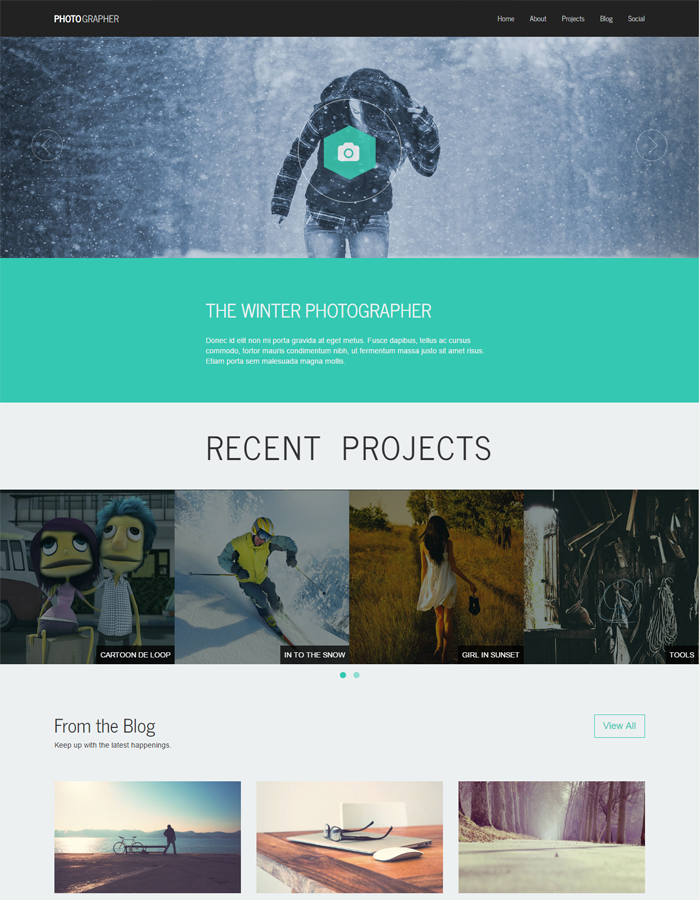
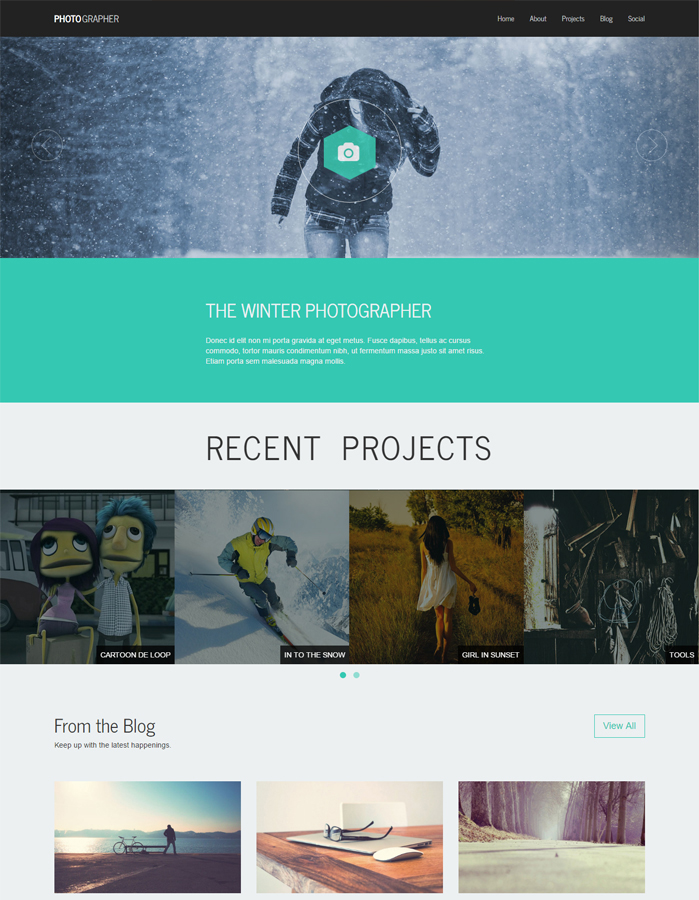
all image and hover added

diff --git a/assets/css/main.css b/assets/css/main.css
@@ -1,3 +1,4 @@
+@import url("https://fonts.googleapis.com/css?family=Roboto:400,100,300,700");
 
 /**! 01. Reset **/
 *,
@@ -29,7 +30,7 @@ body {
   line-height: 1.85714286em;
   -webkit-font-smoothing: antialiased;
   -moz-osx-font-smoothing: grayscale;
-  font-family: 'Open Sans', 'Helvetica', 'Arial', sans-serif;
+  font-family: "Roboto", "Helvetica Neue", "Helvetica", "Arial", "Verdana", "sans-serif";
   color: #666666;
   font-weight: 400;
 }
@@ -46,7 +47,7 @@ h6,
 .h4,
 .h5,
 .h6 {
-  font-family: 'Open Sans', 'Helvetica', 'Arial', sans-serif;
+  font-family: "Roboto", "Helvetica Neue", "Helvetica", "Arial", "Verdana", "sans-serif";
   color: #252525;
   font-weight: 300;
   font-variant-ligatures: common-ligatures;
@@ -270,9 +271,6 @@ a:active {
 
 /* ---- button-group ---- */
 
-/*.button-group {
-  margin-bottom: 20px;
-}*/
 
 a.btn.btn-success {
     padding: 20px 40px;
@@ -294,9 +292,6 @@ a.btn.btn-success {
   margin-left: 0;
   margin-right: 1px;
 }
-
-/*.button-group .button:first-child { border-radius: 0.5em 0 0 0.5em; }
-.button-group .button:last-child { border-radius: 0 0.5em 0.5em 0; }*/
 
 /* ---- isotope ---- */
 
@@ -335,10 +330,12 @@ a.btn.btn-success {
   color: #fff;
   background: #101e2a;
   border-color: #3f3f3f;
-  padding-left: 47px;
-  padding-right: 47px;
+  padding-left: 30px;
+  padding-right: 30px;
   padding-top: 10px;
   padding-bottom: 10px;
+  border-radius: 0;
+  min-width: 200px;
 }
 
 .category2:focus {
@@ -355,6 +352,7 @@ a.btn.btn-success {
   background-color: #101e2a;
   color: #fff;
   padding: 10px;
+  margin: 0;
 }
 
 .background-list li{
@@ -371,6 +369,11 @@ a.btn.btn-success {
      background-color: #101e2a;
 }
 
+.cat-hov:hover > ul
+{
+  display:list-item;
+  z-index:100;
+}
 
 .footer-up {
   background-color: #153241;
@@ -454,3 +457,6 @@ a.website:hover {
     border-radius: 2px;
 }
 
+p.view-cat {
+    margin-bottom: 5px;
+}

diff --git a/assets/js/scripts.js b/assets/js/scripts.js
@@ -1,52 +1,37 @@
-// external js: isotope.pkgd.js
-
 
 $(window).on("load", function() {
-    // init Isotope
-var $grid = $('.grid').isotope({
-  layoutMode: 'fitRows',
-  fitRows: {
-    gutter: -10
-  }
-});
+  var $grid = $('.grid').isotope({
+    layoutMode: 'fitRows',
+    fitRows: {
+      gutter: -10
+    }
+  });
 
-// filter functions
-var filterFns = {
-  
-};
+  // filter functions
+  var filterFns = {
+    
+  };
 
-// bind filter button click
-$('#filters').on( 'click', 'li', function() {
-  var filterValue = $( this ).attr('data-filter');
-  // use filterFn if matches value
-  filterValue = filterFns[ filterValue ] || filterValue;
-  $grid.isotope({ filter: filterValue });
-});
+  // bind filter button click
+  $('#filters').on( 'click', 'li', function() {
+    var filterValue = $( this ).attr('data-filter');
+    // use filterFn if matches value
+    filterValue = filterFns[ filterValue ] || filterValue;
+    $grid.isotope({ filter: filterValue });
+  });
 
-
-
-// change is-checked class on buttons
-$('.button-group').each( function( i, buttonGroup ) {
-  var $buttonGroup = $( buttonGroup );
-  $buttonGroup.on( 'click', 'li', function() {
-    $buttonGroup.find('.is-checked').removeClass('is-checked');
-    $( this ).addClass('is-checked');
+    $(".background-list > li").click(function() {
+    console.log($(this).text());
+     $(".cat-text").text($(this).text()); 
   });
 });
-});
-
-
-  
-/*$(document).ready(function(){
-        $('.dropdown-toggle').dropdown()
-    });*/
-
 
 $(window).scroll(function(){
   $(this).scrollTop()>500?
   $(".scroll-up").fadeIn():
   $(".scroll-up").fadeOut()
 }),
+
 $('a[href="#totop"]').click(function(){
   return $("html, body").animate({scrollTop:0},"slow"),!1
 });

diff --git a/index.html b/index.html
@@ -25,13 +25,13 @@
             <div class="container">
                 <div class="row">
                     <div class=" col-md-12 text-center"/>
-                        <div id="filters" class="btn-group category" role="group" aria-label="...">
-                            <div class="btn-group" role="group">
-                                <button type="button" class="btn btn-default dropdown-toggle category2" data-toggle="dropdown" aria-haspopup="true" aria-expanded="false">All Categories
+                        <div id="filters" class="btn-group category" role="group">
+                            <div class="btn-group cat-hov" role="group">
+                                <button type="button" class="btn btn-default dropdown-toggle category2" data-toggle="dropdown" aria-haspopup="true" aria-expanded="false"><span class="cat-text">All Categories</span>
                                 <span class="caret"></span>
                                 </button>
                                 <ul class="dropdown-menu background-list">
-                                    <li class="is-checked" data-filter="*"><a>Show all</a></li>
+                                    <li class="" data-filter="*"><a>All Categories</a></li>
                                     <li class="" data-filter=".agency"><a>Agency</a></li>
                                     <li class="" data-filter=".business"><a>Business &amp; Corporate</a></li>
                                     <li class="" data-filter=".multipurpose"><a>Multipurpose</a></li>
